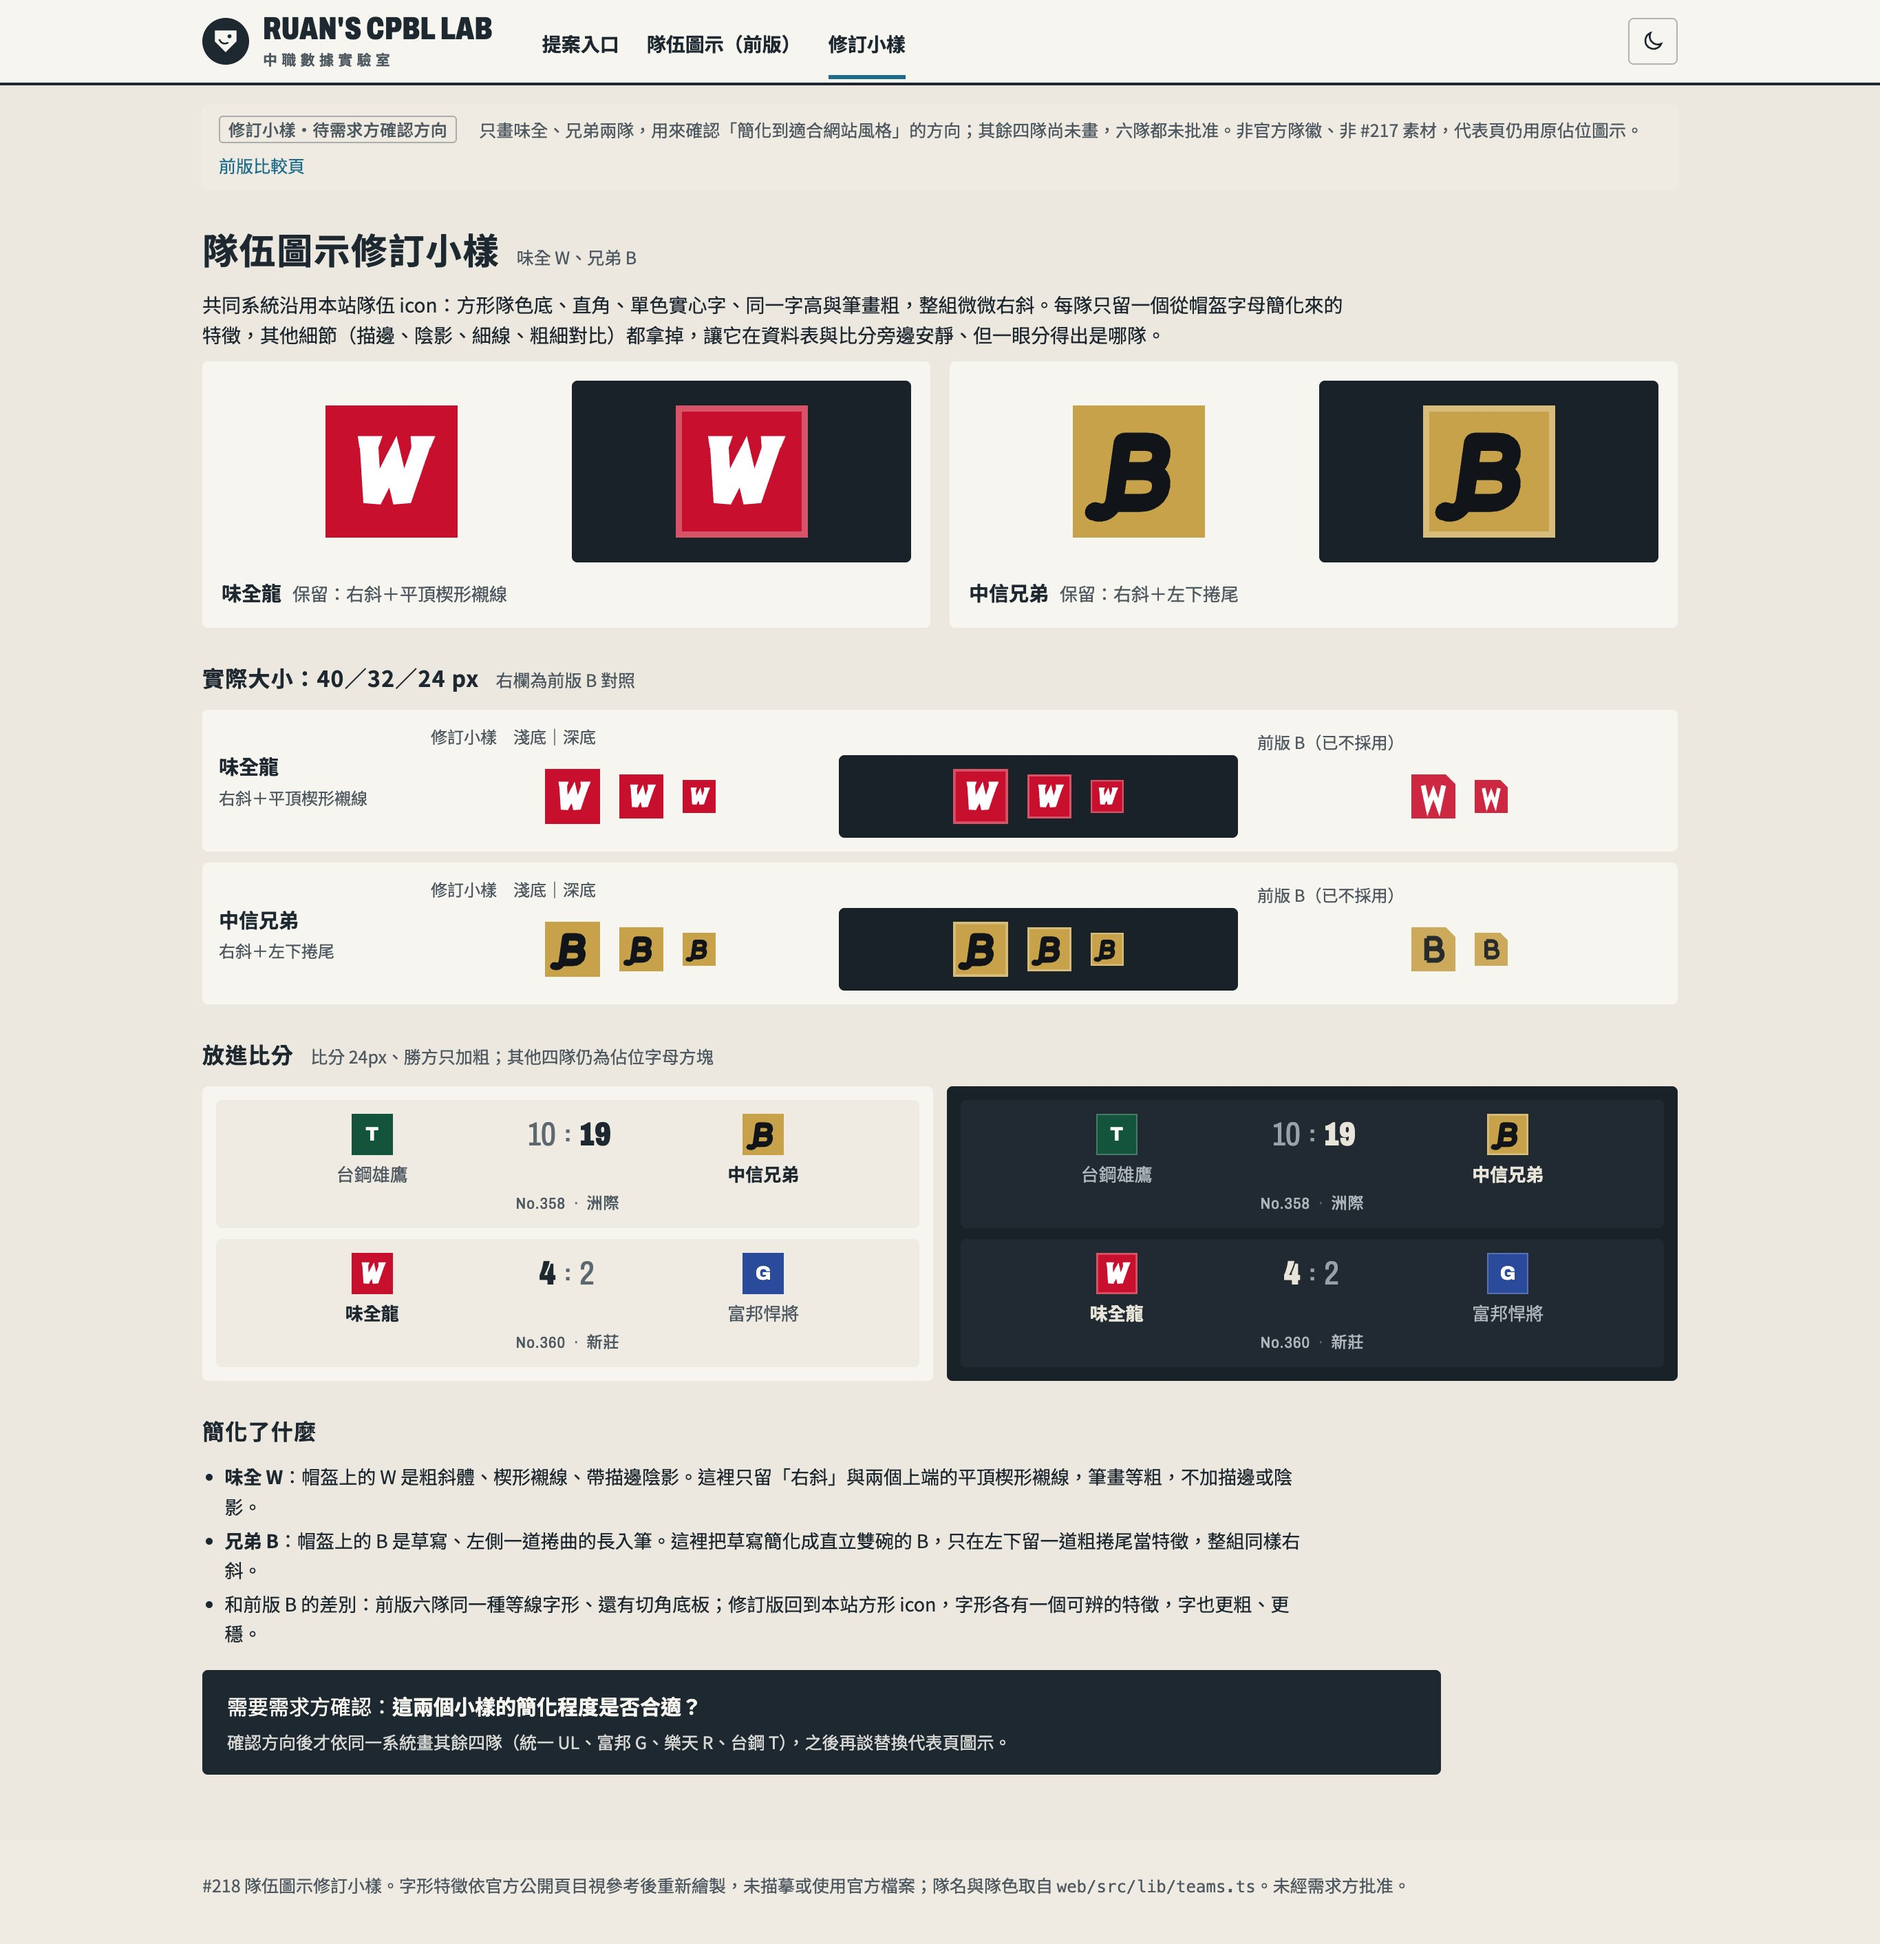
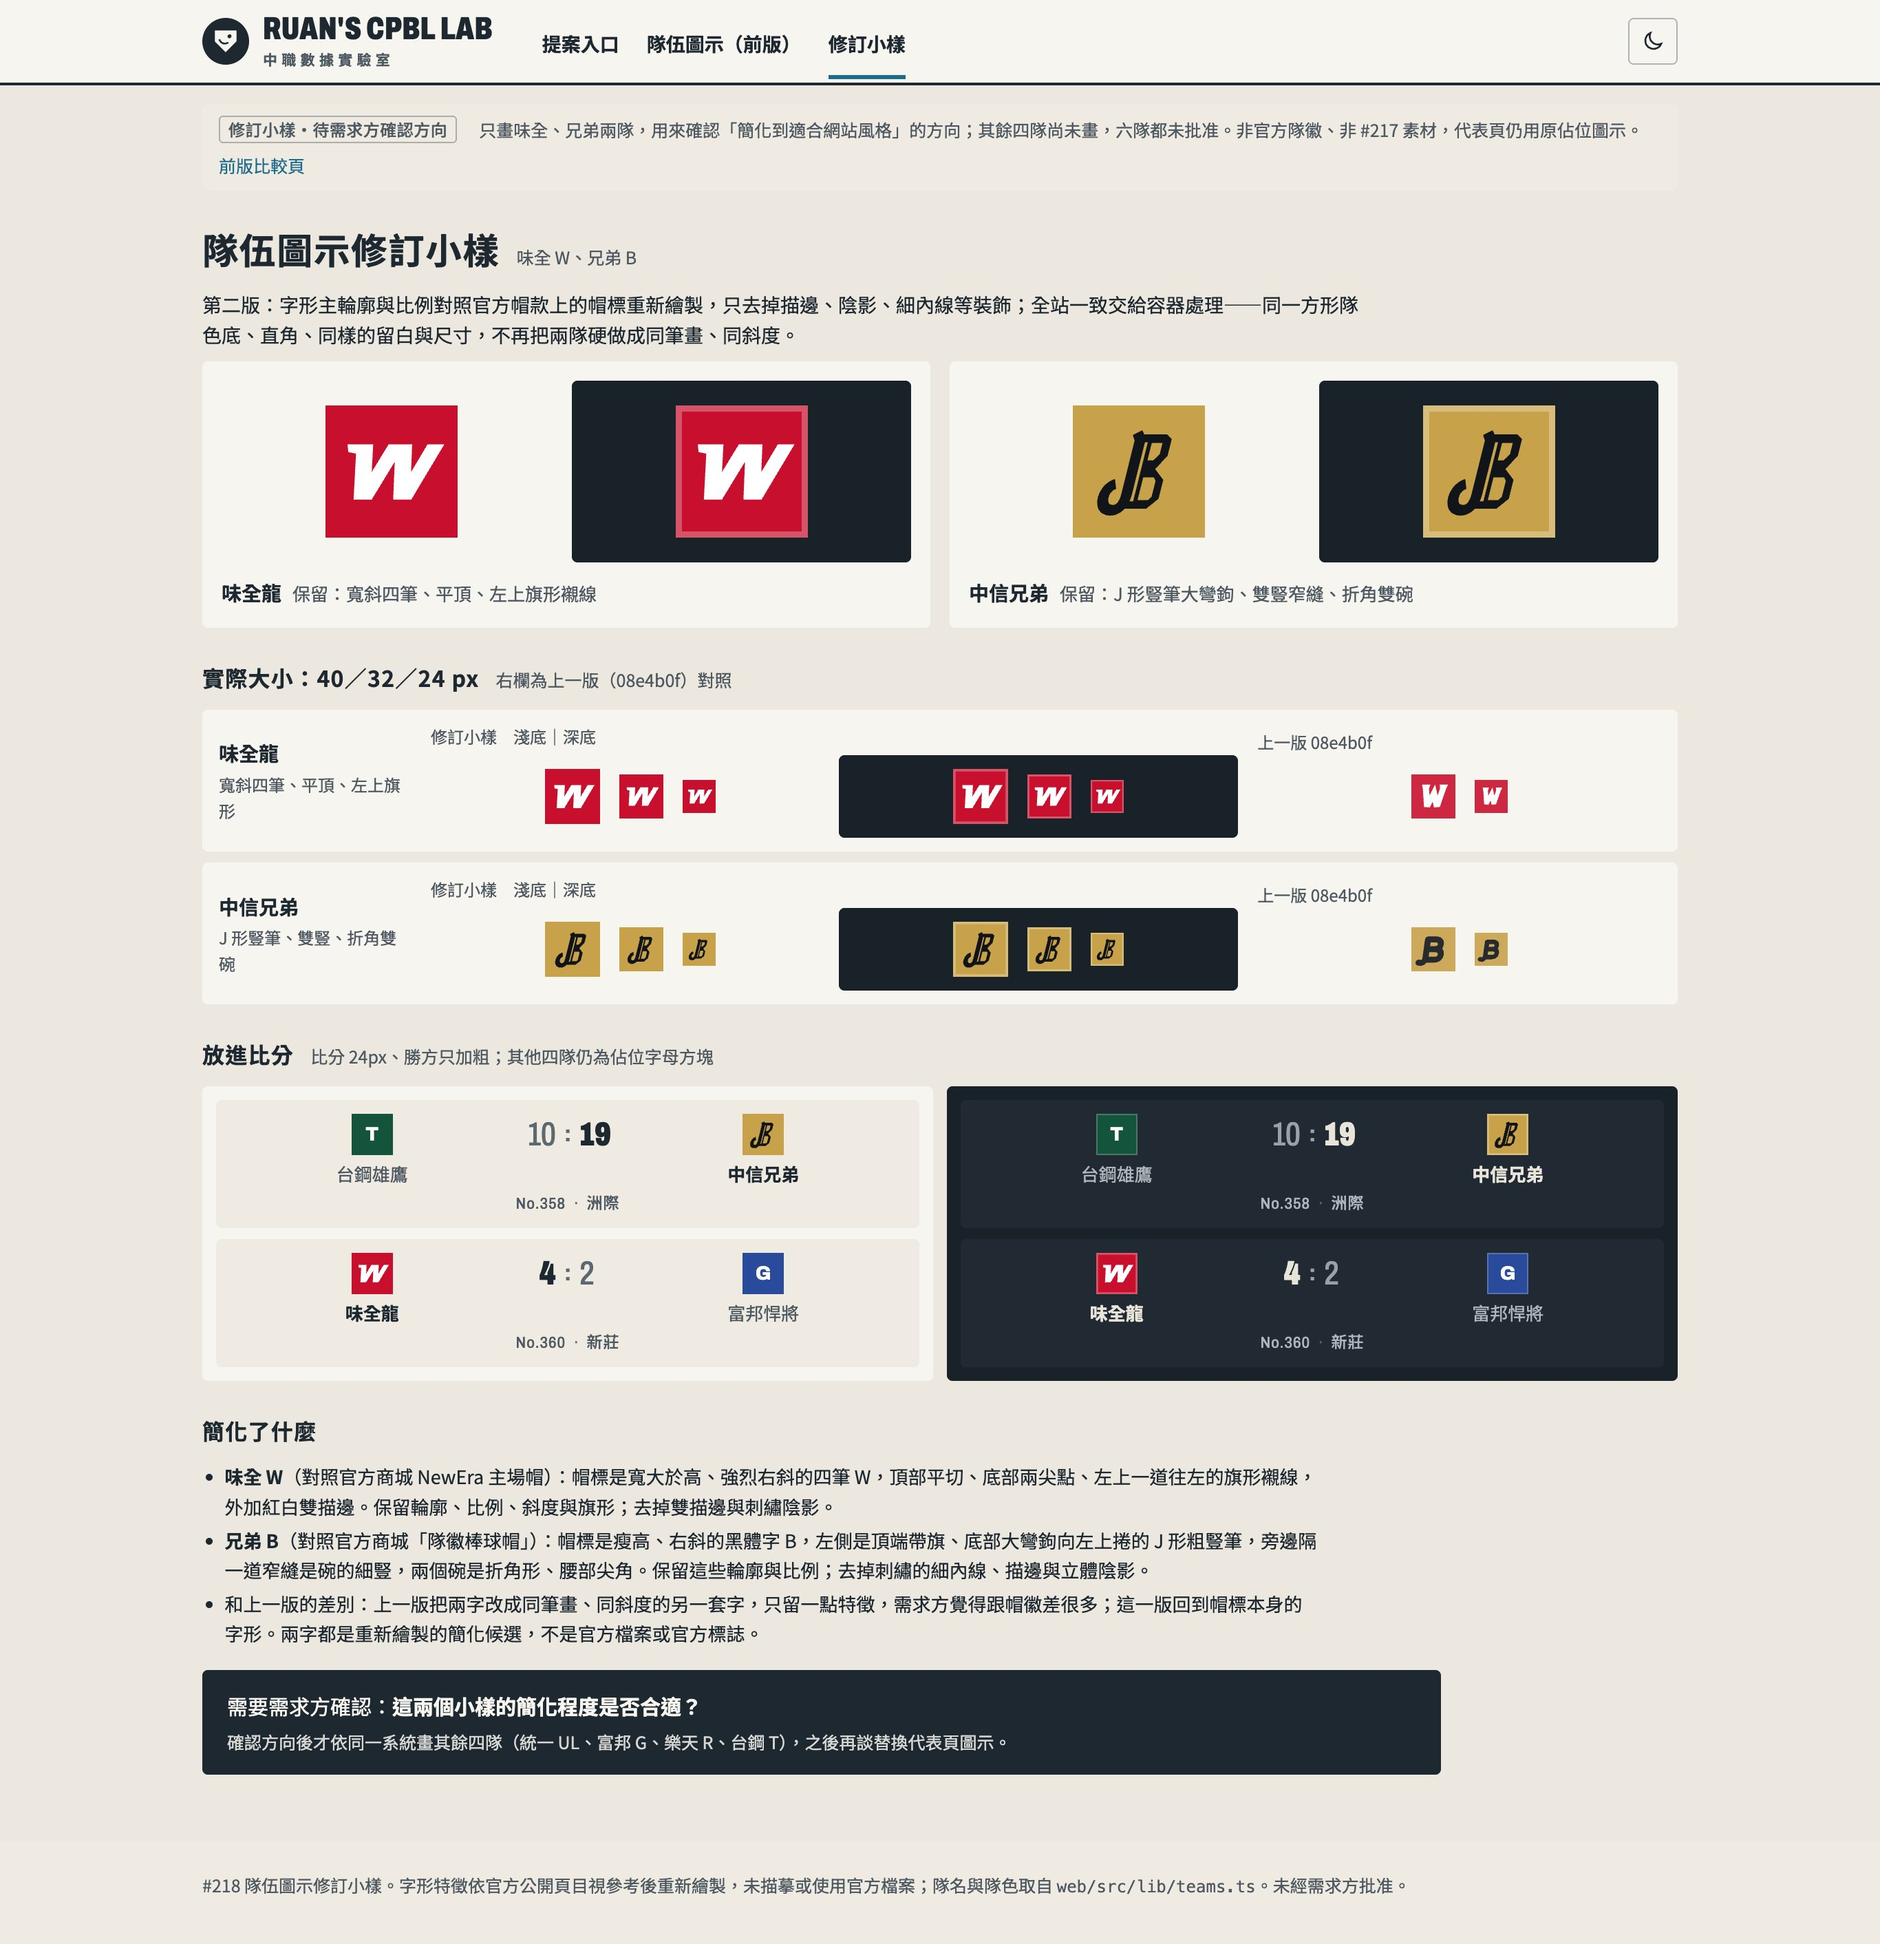
docs: redraw #218 Wei Chuan W and Brothers B from cap lettering
需求方回饋上一版「跟隊伍的帽徽差異還是很大」：簡化應只去描邊陰影等裝飾、保留帽標字形主輪廓。
對照官方商城帽款重新繪製兩隊小樣——W 寬斜四筆、平頂、底部尖點、左上旗形；B 瘦高右斜、
J 形豎筆大彎鉤、雙豎窄縫、折角雙碗；一致感交給同一方形隊色容器。上一版另存 refined-*-v1.svg
供比較頁對照。重新繪製的候選，非官方檔案；其餘四隊未畫、未批准。

diff --git a/design/brand-218/proposal/team-icons-refined.html b/design/brand-218/proposal/team-icons-refined.html
@@ -61,19 +61,19 @@
   <p class="proposal-bar"><span class="st sample">修訂小樣・待需求方確認方向</span><span>只畫味全、兄弟兩隊，用來確認「簡化到適合網站風格」的方向；其餘四隊尚未畫，六隊都未批准。非官方隊徽、非 #217 素材，代表頁仍用原佔位圖示。</span><a href="team-icons.html">前版比較頁</a></p>
 
   <div class="sh"><h1>隊伍圖示修訂小樣</h1><span class="cue">味全 W、兄弟 B</span></div>
-  <p class="lead">共同系統沿用本站隊伍 icon：方形隊色底、直角、單色實心字、同一字高與筆畫粗，整組微微右斜。每隊只留一個從帽盔字母簡化來的特徵，其他細節（描邊、陰影、細線、粗細對比）都拿掉，讓它在資料表與比分旁邊安靜、但一眼分得出是哪隊。</p>
+  <p class="lead">第二版：字形主輪廓與比例對照官方帽款上的帽標重新繪製，只去掉描邊、陰影、細內線等裝飾；全站一致交給容器處理——同一方形隊色底、直角、同樣的留白與尺寸，不再把兩隊硬做成同筆畫、同斜度。</p>
 
-  <div class="heroes"><figure class="hero-mark"><div class="duo"><div class="big sw-light"><svg class="ic s96" role="img" aria-label="味全龍 修訂小樣"><use href="assets/team-icons/refined-AAA011.svg#mark"/></svg></div><div class="big sw-dark"><svg class="ic s96" aria-hidden="true"><use href="assets/team-icons/refined-AAA011.svg#mark"/></svg></div></div><figcaption><b>味全龍</b>保留：右斜＋平頂楔形襯線</figcaption></figure><figure class="hero-mark"><div class="duo"><div class="big sw-light"><svg class="ic s96" role="img" aria-label="中信兄弟 修訂小樣"><use href="assets/team-icons/refined-ACN011.svg#mark"/></svg></div><div class="big sw-dark"><svg class="ic s96" aria-hidden="true"><use href="assets/team-icons/refined-ACN011.svg#mark"/></svg></div></div><figcaption><b>中信兄弟</b>保留：右斜＋左下捲尾</figcaption></figure></div>
+  <div class="heroes"><figure class="hero-mark"><div class="duo"><div class="big sw-light"><svg class="ic s96" role="img" aria-label="味全龍 修訂小樣"><use href="assets/team-icons/refined-AAA011.svg#mark"/></svg></div><div class="big sw-dark"><svg class="ic s96" aria-hidden="true"><use href="assets/team-icons/refined-AAA011.svg#mark"/></svg></div></div><figcaption><b>味全龍</b>保留：寬斜四筆、平頂、左上旗形襯線</figcaption></figure><figure class="hero-mark"><div class="duo"><div class="big sw-light"><svg class="ic s96" role="img" aria-label="中信兄弟 修訂小樣"><use href="assets/team-icons/refined-ACN011.svg#mark"/></svg></div><div class="big sw-dark"><svg class="ic s96" aria-hidden="true"><use href="assets/team-icons/refined-ACN011.svg#mark"/></svg></div></div><figcaption><b>中信兄弟</b>保留：J 形豎筆大彎鉤、雙豎窄縫、折角雙碗</figcaption></figure></div>
 
-  <div class="sh s"><h2>實際大小：40／32／24 px</h2><span class="cue">右欄為前版 B 對照</span></div>
+  <div class="sh s"><h2>實際大小：40／32／24 px</h2><span class="cue">右欄為上一版（08e4b0f）對照</span></div>
   <div class="trows">
-    <div class="trow"><div class="who"><b>味全龍</b><span>右斜＋平頂楔形襯線</span></div>
+    <div class="trow"><div class="who"><b>味全龍</b><span>寬斜四筆、平頂、左上旗形</span></div>
       <div class="set" data-set="修訂小樣　淺底｜深底"><div class="pair"><div class="strip sw-light"><svg class="ic s40" role="img" aria-label="味全龍 修訂小樣 40px"><use href="assets/team-icons/refined-AAA011.svg#mark"/></svg><svg class="ic s32" role="img" aria-label="味全龍 修訂小樣 32px"><use href="assets/team-icons/refined-AAA011.svg#mark"/></svg><svg class="ic s24" role="img" aria-label="味全龍 修訂小樣 24px"><use href="assets/team-icons/refined-AAA011.svg#mark"/></svg></div><div class="strip sw-dark"><svg class="ic s40" aria-hidden="true"><use href="assets/team-icons/refined-AAA011.svg#mark"/></svg><svg class="ic s32" aria-hidden="true"><use href="assets/team-icons/refined-AAA011.svg#mark"/></svg><svg class="ic s24" aria-hidden="true"><use href="assets/team-icons/refined-AAA011.svg#mark"/></svg></div></div></div>
-      <div class="set old" data-set="前版 B（已不採用）"><div class="strip sw-light"><svg class="ic s32" aria-hidden="true"><use href="assets/team-icons/sprite.svg#b-AAA011"/></svg><svg class="ic s24" aria-hidden="true"><use href="assets/team-icons/sprite.svg#b-AAA011"/></svg></div></div>
+      <div class="set old" data-set="上一版 08e4b0f"><div class="strip sw-light"><svg class="ic s32" aria-hidden="true"><use href="assets/team-icons/refined-AAA011-v1.svg#mark"/></svg><svg class="ic s24" aria-hidden="true"><use href="assets/team-icons/refined-AAA011-v1.svg#mark"/></svg></div></div>
     </div>
-    <div class="trow"><div class="who"><b>中信兄弟</b><span>右斜＋左下捲尾</span></div>
+    <div class="trow"><div class="who"><b>中信兄弟</b><span>J 形豎筆、雙豎、折角雙碗</span></div>
       <div class="set" data-set="修訂小樣　淺底｜深底"><div class="pair"><div class="strip sw-light"><svg class="ic s40" role="img" aria-label="中信兄弟 修訂小樣 40px"><use href="assets/team-icons/refined-ACN011.svg#mark"/></svg><svg class="ic s32" role="img" aria-label="中信兄弟 修訂小樣 32px"><use href="assets/team-icons/refined-ACN011.svg#mark"/></svg><svg class="ic s24" role="img" aria-label="中信兄弟 修訂小樣 24px"><use href="assets/team-icons/refined-ACN011.svg#mark"/></svg></div><div class="strip sw-dark"><svg class="ic s40" aria-hidden="true"><use href="assets/team-icons/refined-ACN011.svg#mark"/></svg><svg class="ic s32" aria-hidden="true"><use href="assets/team-icons/refined-ACN011.svg#mark"/></svg><svg class="ic s24" aria-hidden="true"><use href="assets/team-icons/refined-ACN011.svg#mark"/></svg></div></div></div>
-      <div class="set old" data-set="前版 B（已不採用）"><div class="strip sw-light"><svg class="ic s32" aria-hidden="true"><use href="assets/team-icons/sprite.svg#b-ACN011"/></svg><svg class="ic s24" aria-hidden="true"><use href="assets/team-icons/sprite.svg#b-ACN011"/></svg></div></div>
+      <div class="set old" data-set="上一版 08e4b0f"><div class="strip sw-light"><svg class="ic s32" aria-hidden="true"><use href="assets/team-icons/refined-ACN011-v1.svg#mark"/></svg><svg class="ic s24" aria-hidden="true"><use href="assets/team-icons/refined-ACN011-v1.svg#mark"/></svg></div></div>
     </div>
   </div>
 
@@ -92,9 +92,9 @@
   <section class="notes" aria-labelledby="n-h">
     <div class="sh s"><h2 id="n-h">簡化了什麼</h2></div>
     <ul>
-      <li><b>味全 W</b>：帽盔上的 W 是粗斜體、楔形襯線、帶描邊陰影。這裡只留「右斜」與兩個上端的平頂楔形襯線，筆畫等粗，不加描邊或陰影。</li>
-      <li><b>兄弟 B</b>：帽盔上的 B 是草寫、左側一道捲曲的長入筆。這裡把草寫簡化成直立雙碗的 B，只在左下留一道粗捲尾當特徵，整組同樣右斜。</li>
-      <li>和前版 B 的差別：前版六隊同一種等線字形、還有切角底板；修訂版回到本站方形 icon，字形各有一個可辨的特徵，字也更粗、更穩。</li>
+      <li><b>味全 W</b>（對照官方商城 NewEra 主場帽）：帽標是寬大於高、強烈右斜的四筆 W，頂部平切、底部兩尖點、左上一道往左的旗形襯線，外加紅白雙描邊。保留輪廓、比例、斜度與旗形；去掉雙描邊與刺繡陰影。</li>
+      <li><b>兄弟 B</b>（對照官方商城「隊徽棒球帽」）：帽標是瘦高、右斜的黑體字 B，左側是頂端帶旗、底部大彎鉤向左上捲的 J 形粗豎筆，旁邊隔一道窄縫是碗的細豎，兩個碗是折角形、腰部尖角。保留這些輪廓與比例；去掉刺繡的細內線、描邊與立體陰影。</li>
+      <li>和上一版的差別：上一版把兩字改成同筆畫、同斜度的另一套字，只留一點特徵，需求方覺得跟帽徽差很多；這一版回到帽標本身的字形。兩字都是重新繪製的簡化候選，不是官方檔案或官方標誌。</li>
     </ul>
     <p class="ask">需要需求方確認：<b>這兩個小樣的簡化程度是否合適？</b><small>確認方向後才依同一系統畫其餘四隊（統一 UL、富邦 G、樂天 R、台鋼 T），之後再談替換代表頁圖示。</small></p>
   </section>
